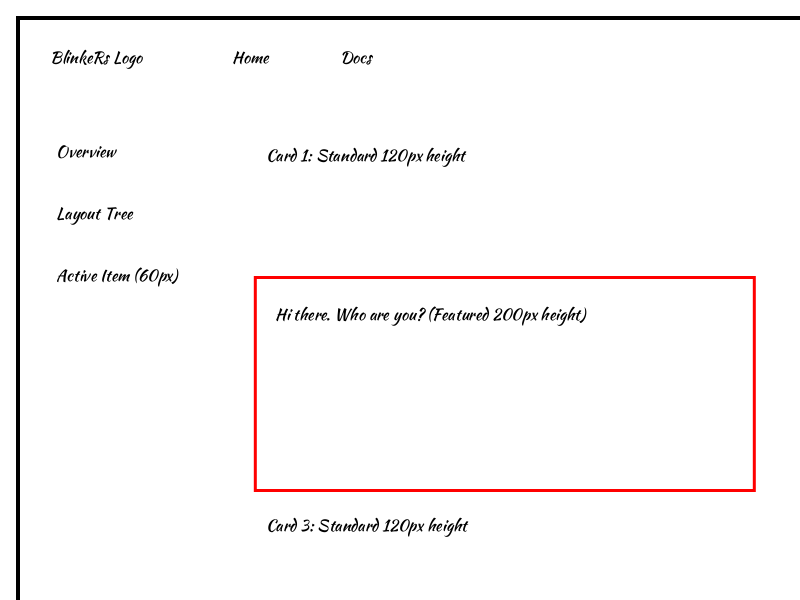
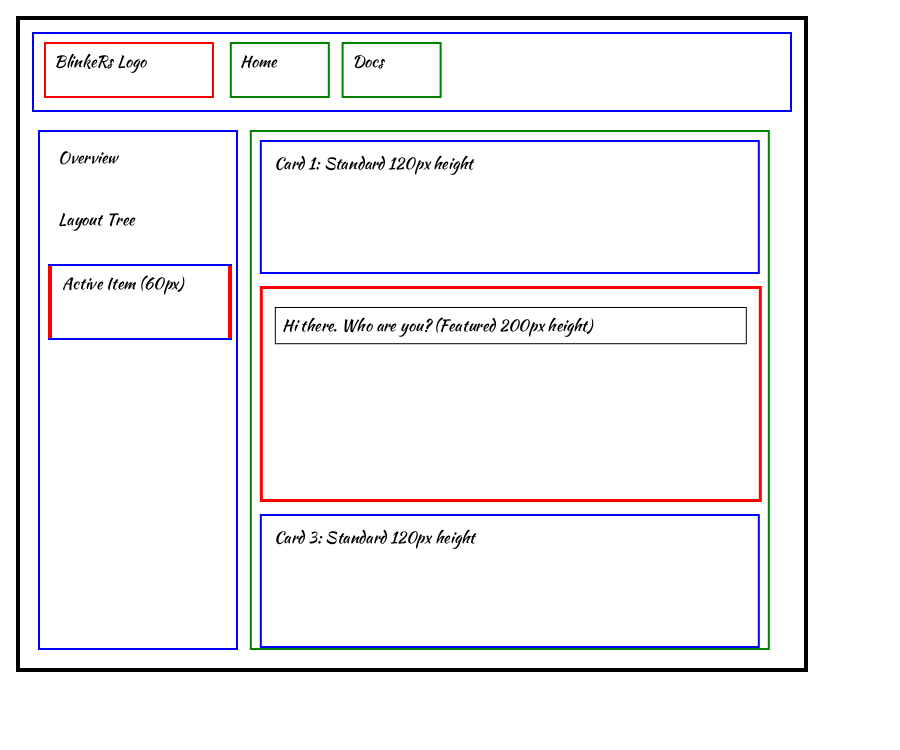
fix(layout): update dimensions and border styles for improved layout consistency

Changed region(s): [[0.0, 0.0, 1.0, 1.0]]

diff --git a/assets/test.css b/assets/test.css
@@ -3,16 +3,15 @@ div#app-root {
     margin: 16px;
     padding: 12px;
     border: 4px solid black;
-    /* Height is left auto to test bottom-up shrink-wrapping */
 }
 
 .header {
-    width: 736px; /* 736 + 20px horizontal padding + 4px horizontal border = 760px */
-    height: 60px; /* 60 + 16px vertical padding + 4px vertical border = 80px */
+    width: 736px;
+    height: 60px;
     display: block;
     margin-bottom: 12px;
     padding: 8px 10px;
-    border: 2px solid navy;
+    border: 2px solid blue;
 }
 
 .logo {
@@ -21,7 +20,7 @@ div#app-root {
     display: inline-block;
     margin-right: 12px;
     padding: 6px 8px;
-    border: 2px solid crimson;
+    border: 2px solid red;
 }
 
 .nav-item {
@@ -30,7 +29,7 @@ div#app-root {
     display: inline-block;
     margin-right: 8px;
     padding: 6px 8px;
-    border: 2px solid teal;
+    border: 2px solid green;
 }
 
 .hidden-element {
@@ -38,30 +37,23 @@ div#app-root {
     height: 500px;
     margin: 50px;
     padding: 50px;
-    border: 10px solid magenta;
-    display: none; /* Should completely disappear from the layout tree */
+    border: 10px solid red;
+    display: none;
 }
 
 .main-layout {
     display: block;
     padding: 6px;
-    border: 2px dashed gray;
-    /* Width inherits from app-root, height is auto */
+    border: 2px solid gray;
 }
 
-/*
- * Testing Inline flow for columns.
- * Sidebar (180 + 16 pad + 4 border + 8 margin = 208px)
- * Content (500 + 16 pad + 4 border = 520px)
- * Total = 728px (+ ~4px inline whitespace) <= 744px inner width of .main-layout
- */
 .sidebar {
     width: 180px;
     height: 500px;
     display: inline-block;
     margin-right: 8px;
     padding: 8px;
-    border: 2px solid purple;
+    border: 2px solid blue;
 }
 
 .content {
@@ -69,7 +61,7 @@ div#app-root {
     height: 500px;
     display: inline-block;
     padding: 8px;
-    border: 2px solid darkgreen;
+    border: 2px solid green;
 }
 
 .menu-link {
@@ -78,24 +70,24 @@ div#app-root {
     display: block;
     margin-bottom: 10px;
     padding: 6px 10px;
-    border: 2px solid orange;
+    border: 2px solid gray;
 }
 
 /* Specificity override test */
 div.sidebar .active {
     height: 60px;
     border-width: 2px 4px;
-    border-style: solid solid solid double;
+    border-style: solid;
     border-color: blue red;
 }
 
 .article-card {
-    width: 472px; /* Fits inside 500px .content width with padding & border */
+    width: 472px;
     height: 110px;
     display: block;
     margin-bottom: 12px;
     padding: 10px 12px;
-    border: 2px solid steelblue;
+    border: 2px solid blue;
 }
 
 /* Descendant selector override */
@@ -107,5 +99,5 @@ div.content .featured {
 div.content .featured p {
     margin: 8px 0px;
     padding: 6px;
-    border: 1px dashed black;
+    border: 1px solid black;
 }

diff --git a/blink_shell/src/main.rs b/blink_shell/src/main.rs
@@ -6,8 +6,8 @@ use blink_render::{RenderOptions, render_to_png_with_options};
 use blink_svg::render_to_svg;
 use std::fs;
 
-const OUTPUT_WIDTH: u32 = 800;
-const OUTPUT_HEIGHT: u32 = 600;
+const OUTPUT_WIDTH: u32 = 900;
+const OUTPUT_HEIGHT: u32 = 750;
 
 fn main() {
     let html_input =
